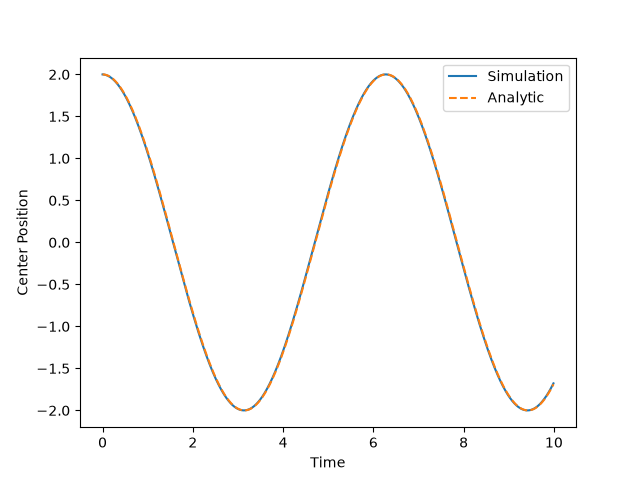
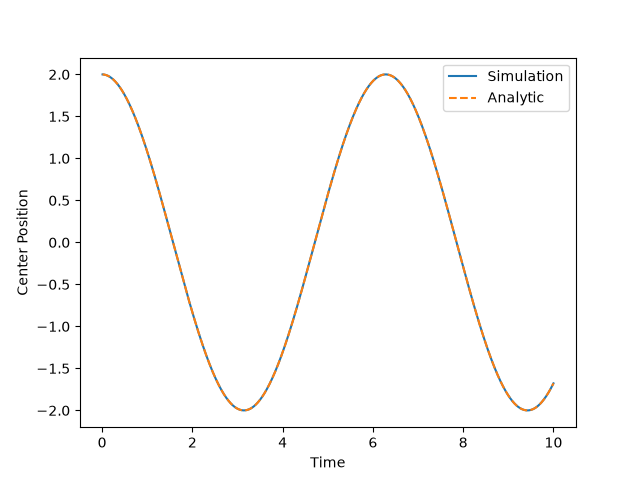
remove todo list

diff --git a/phase1_single_particle.py b/phase1_single_particle.py
@@ -6,14 +6,7 @@ particle yet — just making sure the split-operator propagator behaves
 before we build anything on top of it.
 """
 
-# TODO: set up the grid (N points, x range, dx) and the matching k-space grid
-# TODO: define V(x) = 0.5 * m * omega**2 * x**2
-# TODO: build the initial Gaussian wavepacket
-# TODO: implement one split-operator step (half potential, FFT, kinetic, iFFT, half potential)
-# TODO: loop it over the full simulation time
-# TODO: check norm stays ~1 the whole way through
-# TODO: compare center-of-mass motion to the known analytic solution
-# TODO: save a plot to plots/
+# done
 
 import numpy as np
 import matplotlib.pyplot as plt
